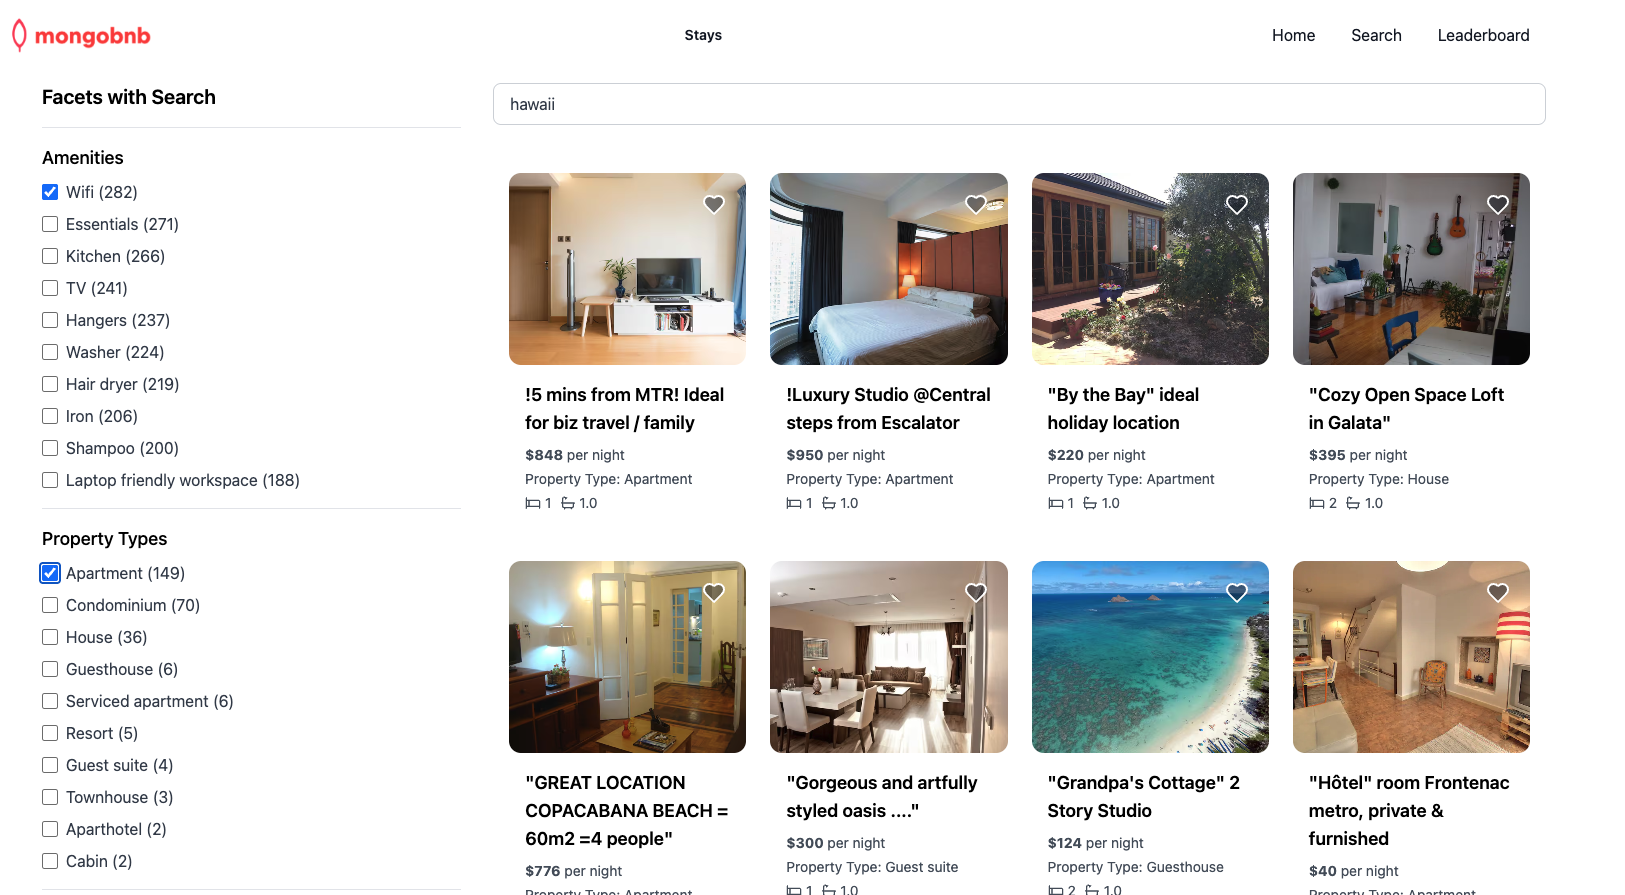
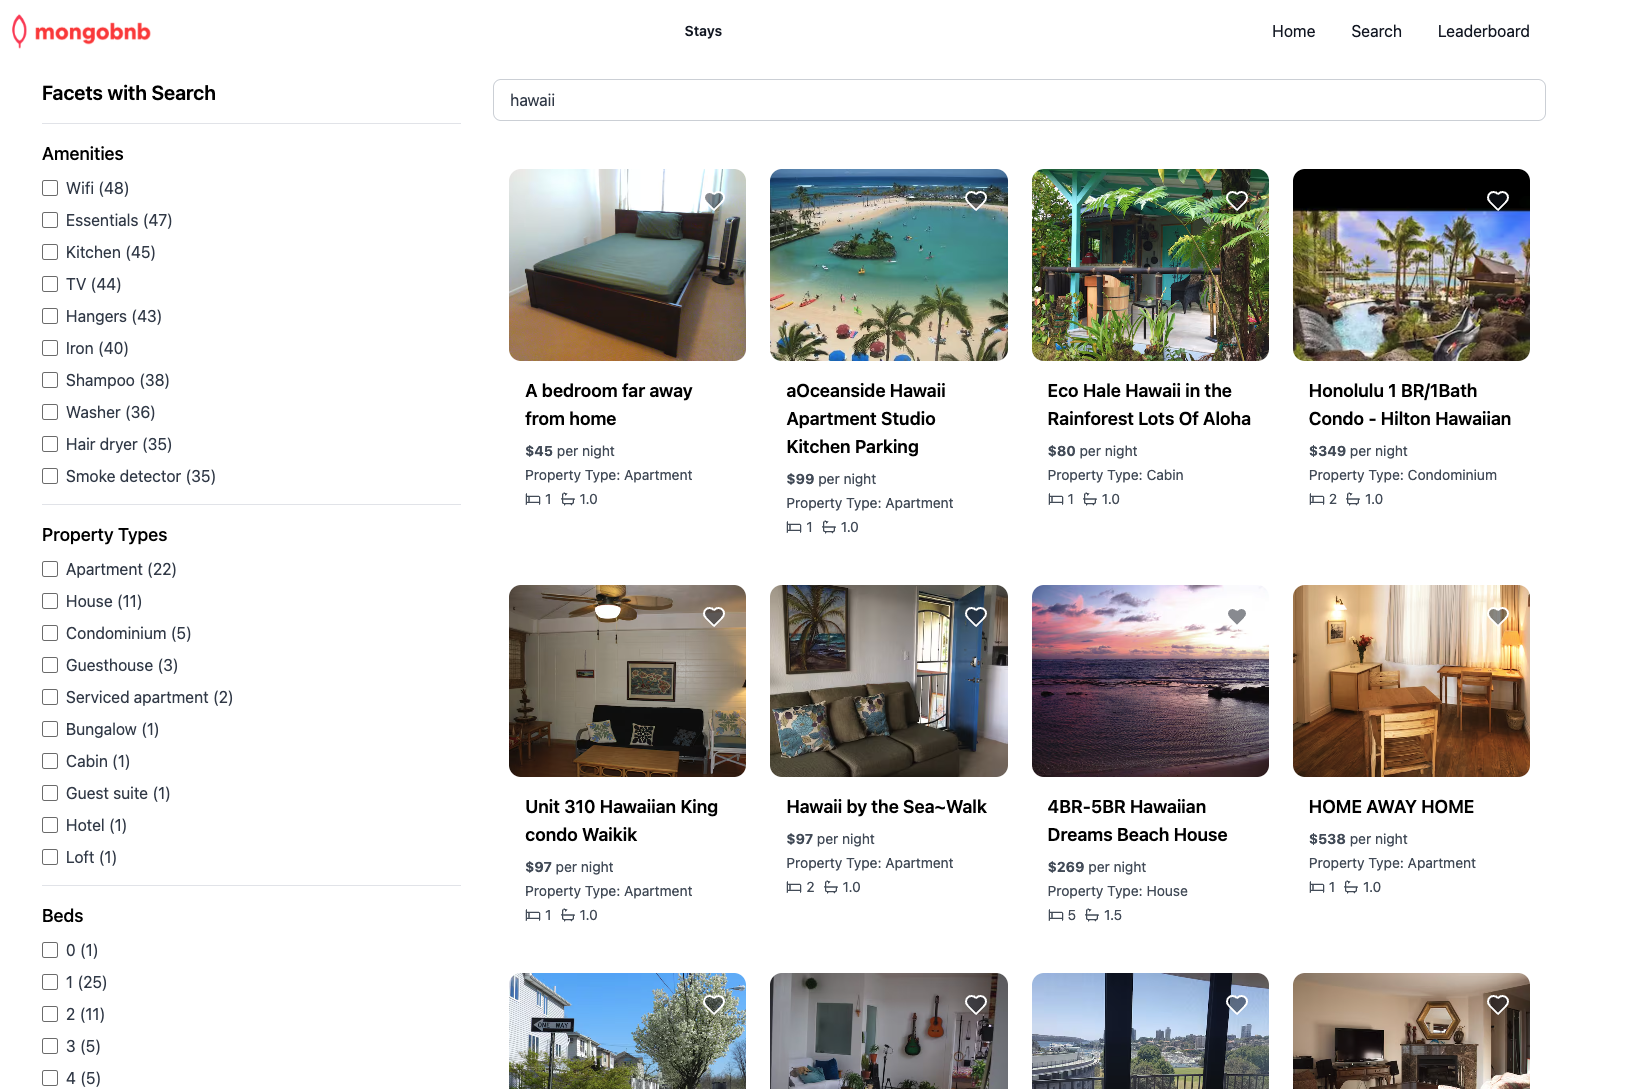
search

diff --git a/server/src/lab/search-2.lab.js b/server/src/lab/search-2.lab.js
@@ -7,10 +7,10 @@ In the facets section, add string facets for amenities and property_type.
 In the facets section, add number facets for beds with boundaries from 0 to 9, and set the default to “Other”.
 */
 export async function facetSearch(query) {
-  const pipeline = [];
+	const pipeline = []
     
-  const item = await db.collection(collectionName)
-    .aggregate(pipeline);
+  	const item = await db.collection(collectionName)
+		.aggregate(pipeline);
   
-  return item.toArray()
+	return item.toArray()
 }

diff --git a/server/src/lab/search-1.lab.js b/server/src/lab/search-1.lab.js
@@ -9,10 +9,10 @@ Limit the results to 10 entries.
 Use the $project stage to include only the name field in the results.
 */
 export async function autocompleteSearch(query) {
-  const pipeline = []
+	const pipeline = []
 
-  const item = await db.collection(collectionName)
-    .aggregate(pipeline);
+    const item = await db.collection(collectionName)
+        .aggregate(pipeline);
 
-  return item.toArray()
+    return item.toArray()
 }

diff --git a/docs/_pages/search/search_facet.md b/docs/_pages/search/search_facet.md
@@ -12,9 +12,13 @@ Learn how to use MongoDB Atlas Search to perform full-text search on your data. 
 1. **Navigate to the File**: In the `lab` folder open `search-2.lab.js`.
 2. **Modify the Function**: Locate and modify the `facetSearch` function.
 3. **Update the Pipeline Array**:
-    - Use the `$search` stage with the `autocomplete` created before to filter on the facets.
-    - In the `facets` section, add string facets for `amenities` and `property_type`.
-    - In the `facets` section, add number facets for `beds` with boundaries from 0 to 9, and set the default to "Other".
+    - Use the `$searchMeta` on the `default` index.
+    - Use the `facet` command to create the facets.
+    - As `operator`, copy the `autocomplete` search you created in the previous exercise.
+    - You will now create the `facets` on tree fields: `amenities`, `property_type`, and `beds`
+        - `amenities`: string facet
+        - `property_type`: string facet
+        - `beds`: numeric facet with boundaries from 0 to 9. Set the default to "Other".
 
 ### Exercise: Testing API Calls
 

diff --git a/docs/_pages/search/search_autocomplete.md b/docs/_pages/search/search_autocomplete.md
@@ -14,9 +14,9 @@ Learn how to use MongoDB Atlas Search to perform full-text search on your data. 
 3. **Update the Pipeline Array**:
     - Use the `$search` stage on the `default` index.
     - Apply the `autocomplete` operator on the `name` field of the listing.
-    - Enable fuzzy search to handle typos and variations.
+    - Enable `fuzzy` search to handle typos and variations.
     - Limit the results to 10 entries.
-    - Use the `$project` stage to include only the `name` field in the results.
+    - The result should nclude only the `name` field.
 
 ### Exercise: Testing API Calls
 

diff --git a/docs/_pages/search/search_indexes.md b/docs/_pages/search/search_indexes.md
@@ -43,6 +43,8 @@ You need to create an index with the following field mappings:
 - `property_type` should be of
     - Type `token`
     - Value `none`
+- `beds` should be of
+    - Type `number`
 - `name` should be of type `autocomplete`
     - Analyzer should be `lucene.english`
     - Max gram should be set to `7`
